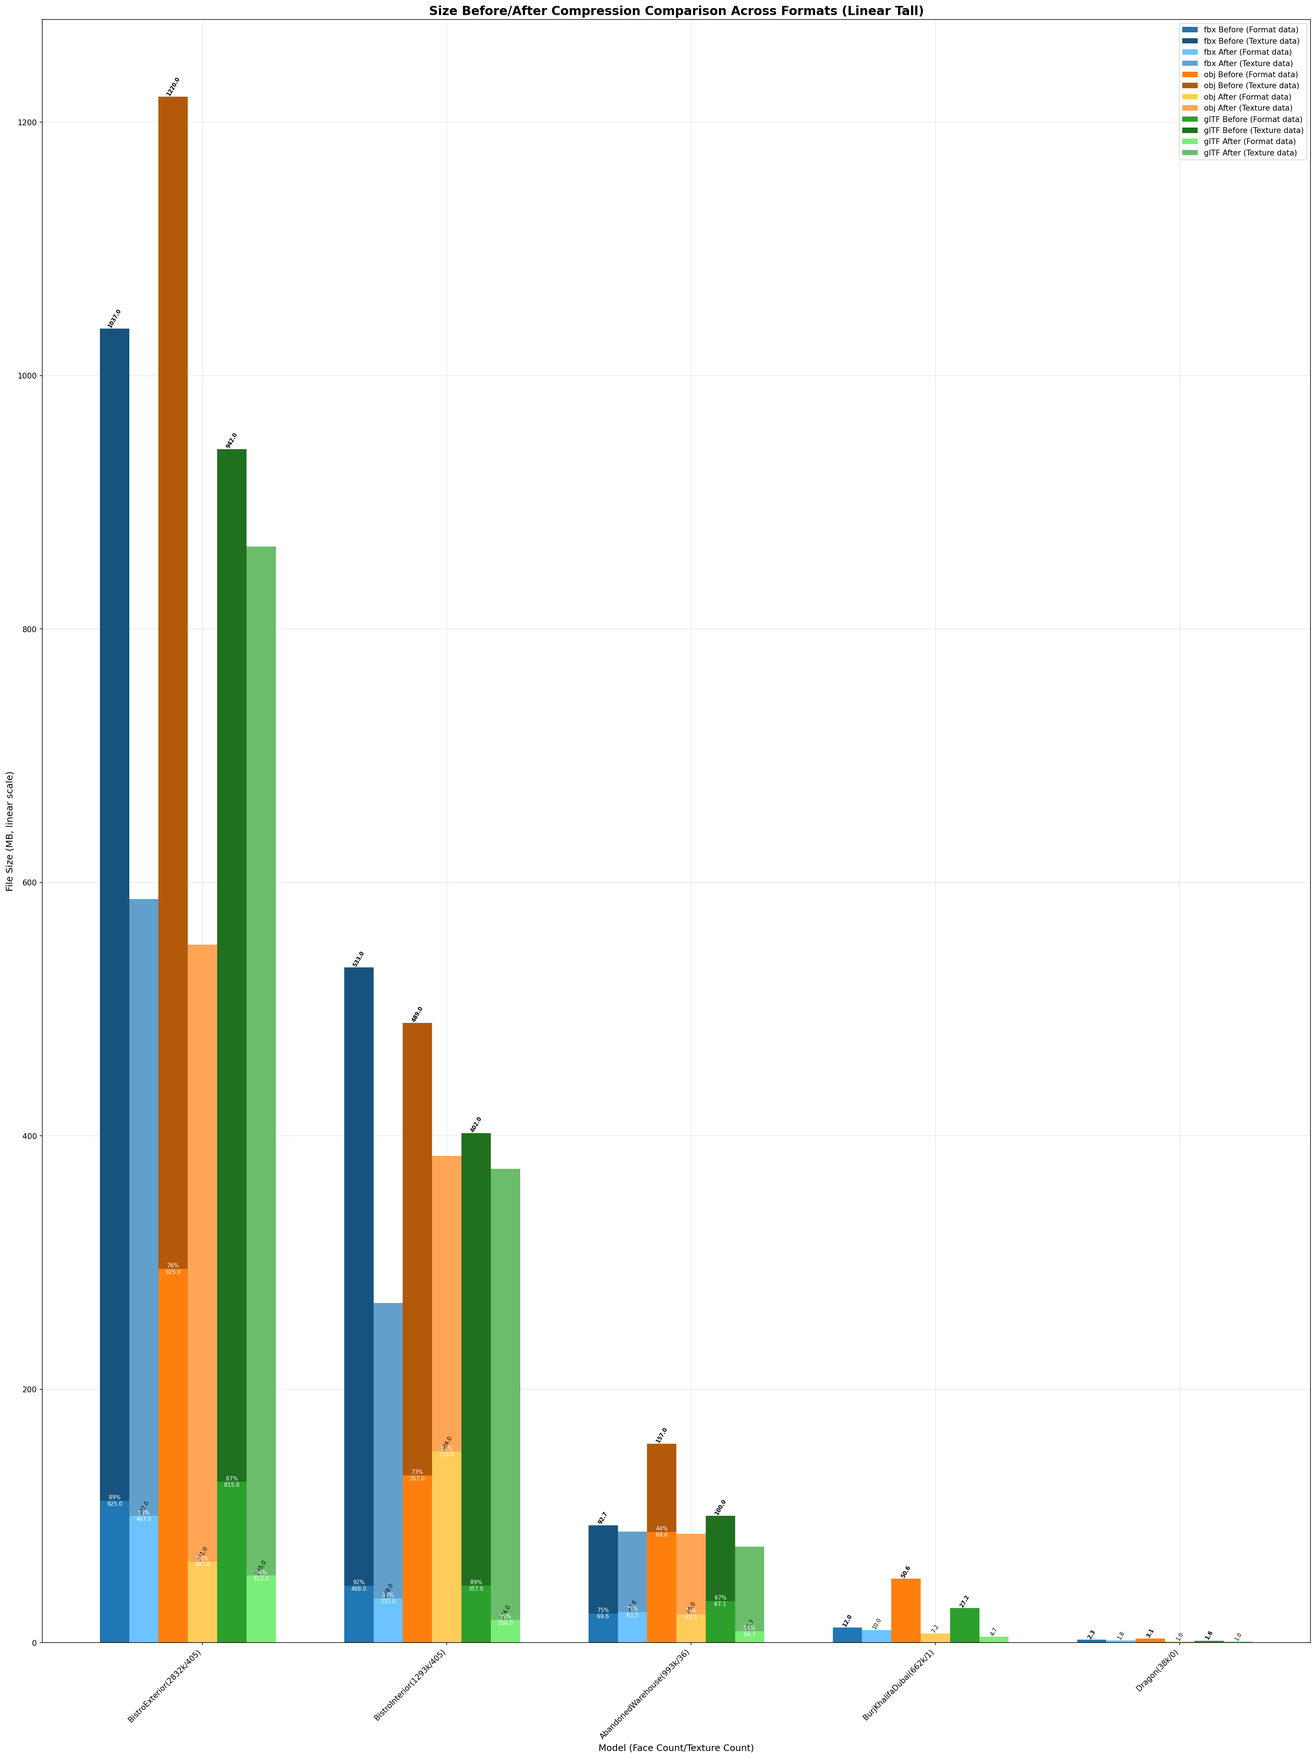
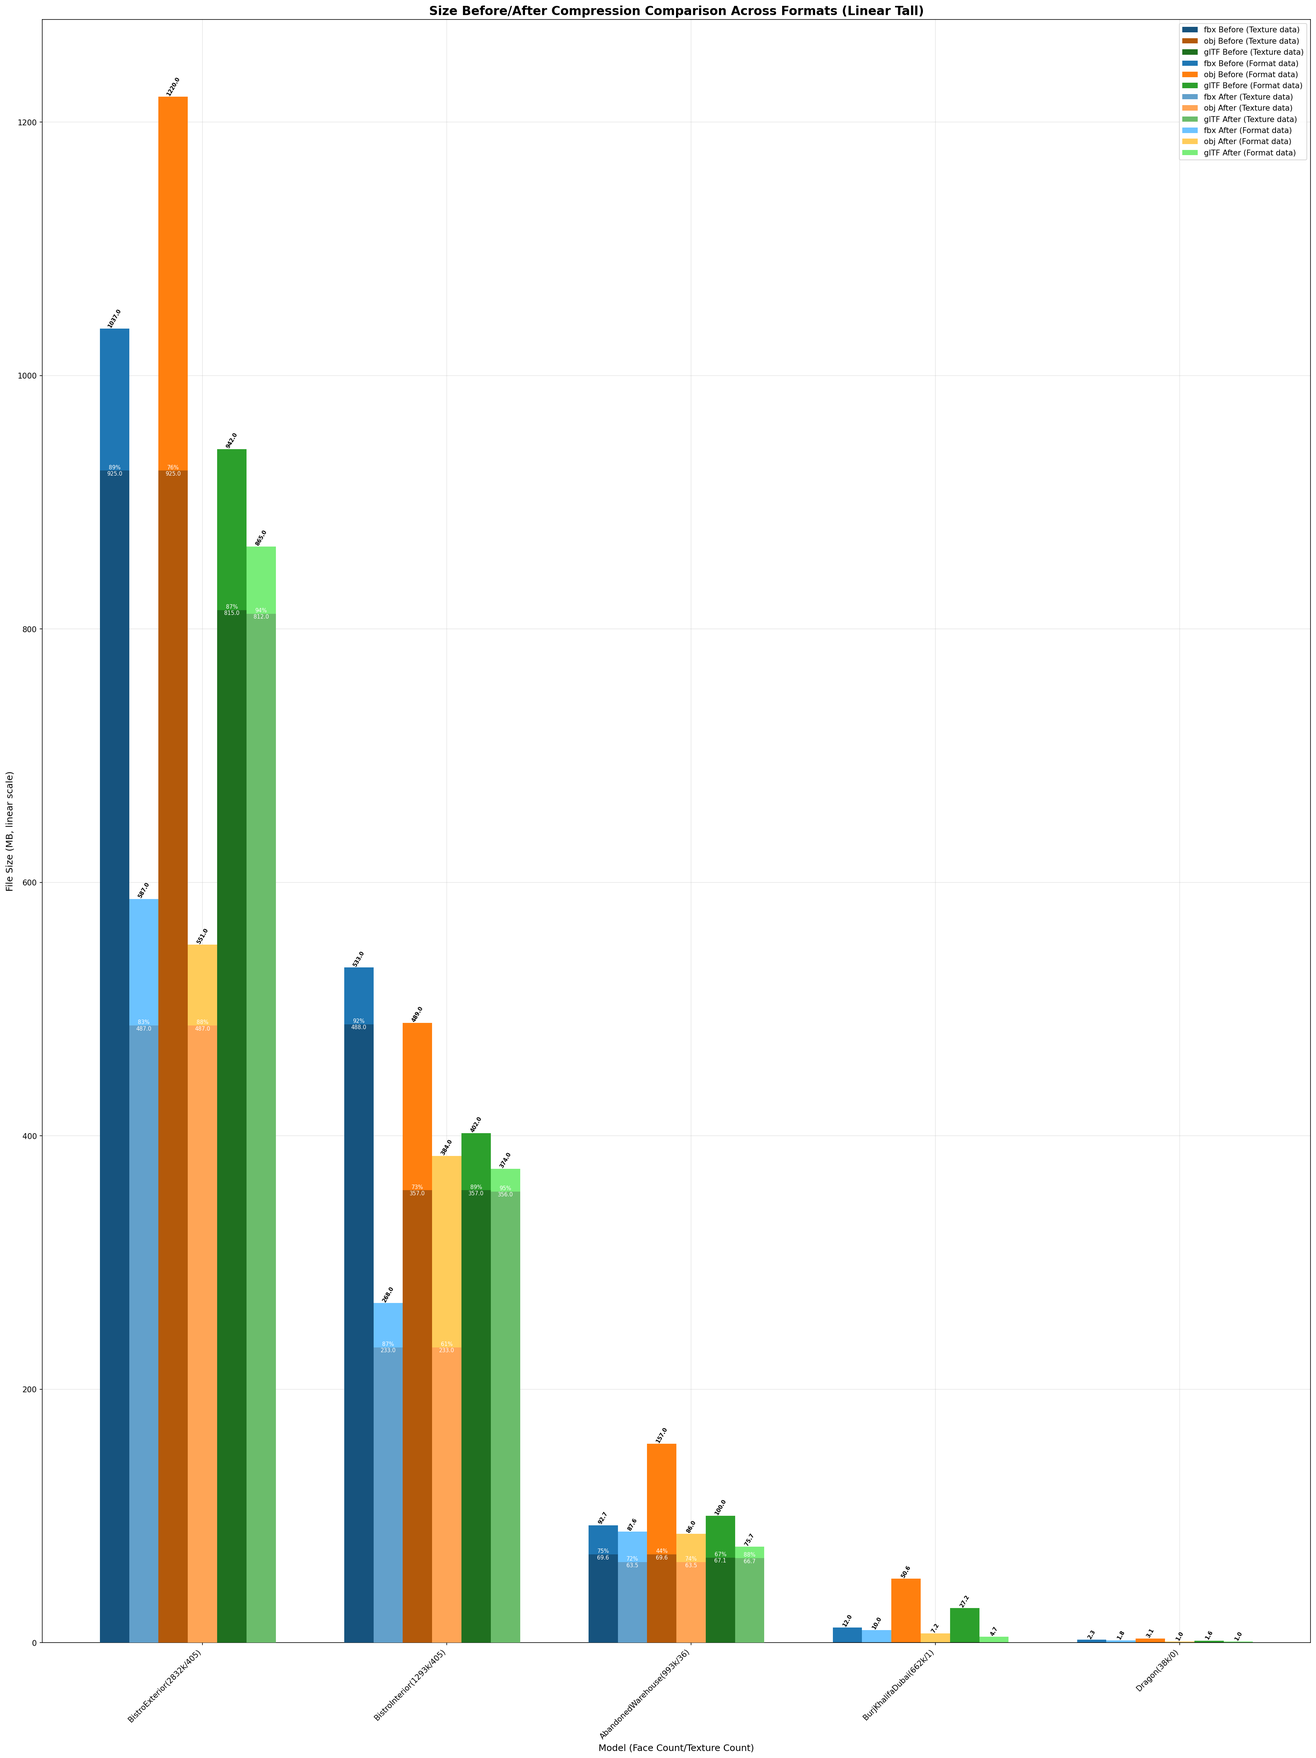
Fix chart data and annotations in reports (#40)
* Changes from background composer bc-c2fe3c64-920c-4b01-bc3e-d4362754724d

* Update cached Python files and chart images

---------

diff --git a/Scripts/main.py b/Scripts/main.py
@@ -1027,7 +1027,7 @@ def create_combined_report(models_data):
     print("Combined report generated: Charts/combined_report.html")
 
 def create_all_format_size_before_after(models_data):
-    """合并Size Before/After Compression为一张分组柱状图"""
+    """合并Size Before/After Compression为一张分组柱状图（下半为纹理，上半为非纹理，标注修正）"""
     formats = ['fbx', 'obj', 'glTF']
     models = []
     face_counts = []
@@ -1049,7 +1049,6 @@ def create_all_format_size_before_after(models_data):
                 else:
                     data_before[fmt].append(None)
                     data_after[fmt].append(None)
-    # 过滤无数据模型
     models, face_counts, textureCounts, keep_indices = filter_models_by_nonempty(models_data, data_before, models, face_counts)
     for fmt in formats:
         data_before[fmt] = [data_before[fmt][i] for i in keep_indices]
@@ -1062,55 +1061,50 @@ def create_all_format_size_before_after(models_data):
         offset = (i - 1.5) * width * 2
         before_vals = [v if v not in [None, 0] else 0 for v in data_before[fmt]]
         after_vals = [v if v not in [None, 0] else 0 for v in data_after[fmt]]
-        texture_before = [
-            models_data[m]['formats'][fmt].get('textureSizeBeforeZipMB', 0) if fmt in models_data[m]['formats'] else 0
-            for m in models
-        ]
-        texture_after = [
-            models_data[m]['formats'][fmt].get('textureSizeAfterZipMB', 0) if fmt in models_data[m]['formats'] else 0
-            for m in models
-        ]
+        texture_before = [models_data[m]['formats'][fmt].get('textureSizeBeforeZipMB', 0) if fmt in models_data[m]['formats'] else 0 for m in models]
+        texture_after = [models_data[m]['formats'][fmt].get('textureSizeAfterZipMB', 0) if fmt in models_data[m]['formats'] else 0 for m in models]
+        non_texture_before = [max(0, v-t) for v, t in zip(before_vals, texture_before)]
+        non_texture_after = [max(0, v-t) for v, t in zip(after_vals, texture_after)]
         color_before = base_colors[i]
         color_after = tuple(np.clip(np.array(base_colors[i]) + 0.3, 0, 1))
         color_before_texture = tuple(np.clip(np.array(base_colors[i]) * 0.7, 0, 1))
         color_after_texture = tuple(np.clip(np.array(base_colors[i]) * 0.7 + 0.3, 0, 1))
-        non_texture_before = [max(0, v-t) for v, t in zip(before_vals, texture_before)]
-        bars1 = ax.bar(x + offset, non_texture_before, width, label=f'{fmt} Before (Format data)', color=color_before, zorder=2)
-        bars1_texture = ax.bar(x + offset, texture_before, width, bottom=non_texture_before, label=f'{fmt} Before (Texture data)', color=color_before_texture, zorder=3)
-        non_texture_after = [max(0, v-t) for v, t in zip(after_vals, texture_after)]
-        bars2 = ax.bar(x + offset + width, non_texture_after, width, label=f'{fmt} After (Format data)', color=color_after, zorder=2)
-        bars2_texture = ax.bar(x + offset + width, texture_after, width, bottom=non_texture_after, label=f'{fmt} After (Texture data)', color=color_after_texture, zorder=3)
-        # 标注
-        for idx, (bar, v, t) in enumerate(zip(bars1, before_vals, texture_before)):
+        # Before: 下半为纹理，上半为非纹理
+        bars1_texture = ax.bar(x + offset, texture_before, width, label=f'{fmt} Before (Texture data)', color=color_before_texture, zorder=3)
+        bars1 = ax.bar(x + offset, non_texture_before, width, bottom=texture_before, label=f'{fmt} Before (Format data)', color=color_before, zorder=2)
+        # After: 下半为纹理，上半为非纹理
+        bars2_texture = ax.bar(x + offset + width, texture_after, width, label=f'{fmt} After (Texture data)', color=color_after_texture, zorder=3)
+        bars2 = ax.bar(x + offset + width, non_texture_after, width, bottom=texture_after, label=f'{fmt} After (Format data)', color=color_after, zorder=2)
+        # 标注 before
+        for idx, (bar_tex, bar_fmt, v, t) in enumerate(zip(bars1_texture, bars1, before_vals, texture_before)):
             if v is None:
-                ax.text(bar.get_x() + bar.get_width()/2., 0.5, 'Missing', ha='center', va='bottom', fontsize=7, color='red', rotation=60, zorder=4)
+                ax.text(bar_fmt.get_x() + bar_fmt.get_width()/2., 0.5, 'Missing', ha='center', va='bottom', fontsize=7, color='red', rotation=60, zorder=4)
             elif v not in [None, 0]:
-                # 原有：ax.text(bar.get_x() + bar.get_width()/2., bar.get_height(), f'{v:.1f}', ...)
-                # 新增：将总值标注在柱子最顶端
-                total_height = non_texture_before[idx] + texture_before[idx]
-                ax.text(bar.get_x() + bar.get_width()/2., total_height, f'{v:.1f}', ha='center', va='bottom', fontsize=7, rotation=60, zorder=4, color='black', fontweight='bold')
-                # 纹理占比
-                if t > 0 and v > 0:
-                    percent = t / v * 100
-                    txt = f'{percent:.0f}%\n{t:.1f}'
-                    if t > v * 0.18:  # 足够空间
-                        ax.text(bar.get_x() + bar.get_width()/2., bar.get_y() + bar.get_height(), txt, ha='center', va='center', fontsize=7, color='white', zorder=5)
-                    else:
-                        ax.plot([bar.get_x() + bar.get_width()/2., bar.get_x() + bar.get_width()/2. + 0.05], [bar.get_y() + bar.get_height(), bar.get_y() + bar.get_height() + max(v*0.08, 2)], color='black', lw=0.7, zorder=6)
-                        ax.text(bar.get_x() + bar.get_width()/2. + 0.08, bar.get_y() + bar.get_height() + max(v*0.08, 2), txt, ha='left', va='bottom', fontsize=7, color='black', zorder=6)
-        for idx, (bar, v, t) in enumerate(zip(bars2, after_vals, texture_after)):
-            if v is None:
-                ax.text(bar.get_x() + bar.get_width()/2., 0.5, 'Missing', ha='center', va='bottom', fontsize=7, color='red', rotation=60, zorder=4)
-            elif v not in [None, 0]:
-                ax.text(bar.get_x() + bar.get_width()/2., bar.get_height(), f'{v:.1f}', ha='center', va='bottom', fontsize=7, rotation=60, zorder=4)
+                total_height = texture_before[idx] + non_texture_before[idx]
+                ax.text(bar_fmt.get_x() + bar_fmt.get_width()/2., total_height, f'{v:.1f}', ha='center', va='bottom', fontsize=7, rotation=60, zorder=4, color='black', fontweight='bold')
                 if t > 0 and v > 0:
                     percent = t / v * 100
                     txt = f'{percent:.0f}%\n{t:.1f}'
                     if t > v * 0.18:
-                        ax.text(bar.get_x() + bar.get_width()/2., bar.get_y() + bar.get_height(), txt, ha='center', va='center', fontsize=7, color='white', zorder=5)
+                        ax.text(bar_tex.get_x() + bar_tex.get_width()/2., bar_tex.get_y() + bar_tex.get_height(), txt, ha='center', va='center', fontsize=7, color='white', zorder=5)
                     else:
-                        ax.plot([bar.get_x() + bar.get_width()/2., bar.get_x() + bar.get_width()/2. + 0.05], [bar.get_y() + bar.get_height(), bar.get_y() + bar.get_height() + max(v*0.08, 2)], color='black', lw=0.7, zorder=6)
-                        ax.text(bar.get_x() + bar.get_width()/2. + 0.08, bar.get_y() + bar.get_height() + max(v*0.08, 2), txt, ha='left', va='bottom', fontsize=7, color='black', zorder=6)
+                        ax.plot([bar_tex.get_x() + bar_tex.get_width()/2., bar_tex.get_x() + bar_tex.get_width()/2. + 0.05], [bar_tex.get_y() + bar_tex.get_height(), bar_tex.get_y() + bar_tex.get_height() + max(v*0.08, 2)], color='black', lw=0.7, zorder=6)
+                        ax.text(bar_tex.get_x() + bar_tex.get_width()/2. + 0.08, bar_tex.get_y() + bar_tex.get_height() + max(v*0.08, 2), txt, ha='left', va='bottom', fontsize=7, color='black', zorder=6)
+        # 标注 after
+        for idx, (bar_tex, bar_fmt, v, t) in enumerate(zip(bars2_texture, bars2, after_vals, texture_after)):
+            if v is None:
+                ax.text(bar_fmt.get_x() + bar_fmt.get_width()/2., 0.5, 'Missing', ha='center', va='bottom', fontsize=7, color='red', rotation=60, zorder=4)
+            elif v not in [None, 0]:
+                total_height = texture_after[idx] + non_texture_after[idx]
+                ax.text(bar_fmt.get_x() + bar_fmt.get_width()/2., total_height, f'{v:.1f}', ha='center', va='bottom', fontsize=7, rotation=60, zorder=4, color='black', fontweight='bold')
+                if t > 0 and v > 0:
+                    percent = t / v * 100
+                    txt = f'{percent:.0f}%\n{t:.1f}'
+                    if t > v * 0.18:
+                        ax.text(bar_tex.get_x() + bar_tex.get_width()/2., bar_tex.get_y() + bar_tex.get_height(), txt, ha='center', va='center', fontsize=7, color='white', zorder=5)
+                    else:
+                        ax.plot([bar_tex.get_x() + bar_tex.get_width()/2., bar_tex.get_x() + bar_tex.get_width()/2. + 0.05], [bar_tex.get_y() + bar_tex.get_height(), bar_tex.get_y() + bar_tex.get_height() + max(v*0.08, 2)], color='black', lw=0.7, zorder=6)
+                        ax.text(bar_tex.get_x() + bar_tex.get_width()/2. + 0.08, bar_tex.get_y() + bar_tex.get_height() + max(v*0.08, 2), txt, ha='left', va='bottom', fontsize=7, color='black', zorder=6)
     all_values = []
     for fmt in formats:
         all_values += [v for v in data_before[fmt] if v not in [None, 0]]
@@ -1123,7 +1117,16 @@ def create_all_format_size_before_after(models_data):
     ax.set_xticks(x)
     labels = [get_standardized_model_name(m, f, t) for m, f, t in zip(models, face_counts, textureCounts)]
     ax.set_xticklabels(labels, rotation=45, ha='right')
-    ax.legend()
+    handles, labels = ax.get_legend_handles_labels()
+    # 去重且顺序: Texture data在下，Format data在上
+    new_labels = []
+    new_handles = []
+    for want in ['Before (Texture data)', 'Before (Format data)', 'After (Texture data)', 'After (Format data)']:
+        for h, l in zip(handles, labels):
+            if want in l and l not in new_labels:
+                new_labels.append(l)
+                new_handles.append(h)
+    ax.legend(new_handles, new_labels)
     ax.grid(True, alpha=0.3, which='both', zorder=1)
     if use_log:
         ax.set_yscale('log')
@@ -1134,7 +1137,7 @@ def create_all_format_size_before_after(models_data):
 # 新增：线性坐标轴+大高图
 
 def create_all_format_size_before_after_linear_tall(models_data):
-    """线性坐标轴+大高图的Size Before/After Compression分组柱状图"""
+    """线性坐标轴+大高图的Size Before/After Compression分组柱状图（下半为纹理，上半为非纹理，标注修正）"""
     formats = ['fbx', 'obj', 'glTF']
     models = []
     face_counts = []
@@ -1162,66 +1165,72 @@ def create_all_format_size_before_after_linear_tall(models_data):
         data_after[fmt] = [data_after[fmt][i] for i in keep_indices]
     x = np.arange(len(models))
     width = 0.12
-    fig, ax = plt.subplots(figsize=(max(24, len(models)*1.2), 32))  # 高度大幅提升
+    fig, ax = plt.subplots(figsize=(max(24, len(models)*1.2), 32))
     base_colors = plt.get_cmap('tab10').colors
     for i, fmt in enumerate(formats):
         offset = (i - 1.5) * width * 2
         before_vals = [v if v not in [None, 0] else 0 for v in data_before[fmt]]
         after_vals = [v if v not in [None, 0] else 0 for v in data_after[fmt]]
-        texture_before = [
-            models_data[m]['formats'][fmt].get('textureSizeBeforeZipMB', 0) if fmt in models_data[m]['formats'] else 0
-            for m in models
-        ]
-        texture_after = [
-            models_data[m]['formats'][fmt].get('textureSizeAfterZipMB', 0) if fmt in models_data[m]['formats'] else 0
-            for m in models
-        ]
+        texture_before = [models_data[m]['formats'][fmt].get('textureSizeBeforeZipMB', 0) if fmt in models_data[m]['formats'] else 0 for m in models]
+        texture_after = [models_data[m]['formats'][fmt].get('textureSizeAfterZipMB', 0) if fmt in models_data[m]['formats'] else 0 for m in models]
+        non_texture_before = [max(0, v-t) for v, t in zip(before_vals, texture_before)]
+        non_texture_after = [max(0, v-t) for v, t in zip(after_vals, texture_after)]
         color_before = base_colors[i]
         color_after = tuple(np.clip(np.array(base_colors[i]) + 0.3, 0, 1))
         color_before_texture = tuple(np.clip(np.array(base_colors[i]) * 0.7, 0, 1))
         color_after_texture = tuple(np.clip(np.array(base_colors[i]) * 0.7 + 0.3, 0, 1))
-        non_texture_before = [max(0, v-t) for v, t in zip(before_vals, texture_before)]
-        bars1 = ax.bar(x + offset, non_texture_before, width, label=f'{fmt} Before (Format data)', color=color_before, zorder=2)
-        bars1_texture = ax.bar(x + offset, texture_before, width, bottom=non_texture_before, label=f'{fmt} Before (Texture data)', color=color_before_texture, zorder=3)
-        non_texture_after = [max(0, v-t) for v, t in zip(after_vals, texture_after)]
-        bars2 = ax.bar(x + offset + width, non_texture_after, width, label=f'{fmt} After (Format data)', color=color_after, zorder=2)
-        bars2_texture = ax.bar(x + offset + width, texture_after, width, bottom=non_texture_after, label=f'{fmt} After (Texture data)', color=color_after_texture, zorder=3)
-        for idx, (bar, v, t) in enumerate(zip(bars1, before_vals, texture_before)):
+        # Before: 下半为纹理，上半为非纹理
+        bars1_texture = ax.bar(x + offset, texture_before, width, label=f'{fmt} Before (Texture data)', color=color_before_texture, zorder=3)
+        bars1 = ax.bar(x + offset, non_texture_before, width, bottom=texture_before, label=f'{fmt} Before (Format data)', color=color_before, zorder=2)
+        # After: 下半为纹理，上半为非纹理
+        bars2_texture = ax.bar(x + offset + width, texture_after, width, label=f'{fmt} After (Texture data)', color=color_after_texture, zorder=3)
+        bars2 = ax.bar(x + offset + width, non_texture_after, width, bottom=texture_after, label=f'{fmt} After (Format data)', color=color_after, zorder=2)
+        # 标注 before
+        for idx, (bar_tex, bar_fmt, v, t) in enumerate(zip(bars1_texture, bars1, before_vals, texture_before)):
             if v is None:
-                ax.text(bar.get_x() + bar.get_width()/2., 0.5, 'Missing', ha='center', va='bottom', fontsize=7, color='red', rotation=60, zorder=4)
+                ax.text(bar_fmt.get_x() + bar_fmt.get_width()/2., 0.5, 'Missing', ha='center', va='bottom', fontsize=7, color='red', rotation=60, zorder=4)
             elif v not in [None, 0]:
-                total_height = non_texture_before[idx] + texture_before[idx]
-                ax.text(bar.get_x() + bar.get_width()/2., total_height, f'{v:.1f}', ha='center', va='bottom', fontsize=7, rotation=60, zorder=4, color='black', fontweight='bold')
+                total_height = texture_before[idx] + non_texture_before[idx]
+                ax.text(bar_fmt.get_x() + bar_fmt.get_width()/2., total_height, f'{v:.1f}', ha='center', va='bottom', fontsize=7, rotation=60, zorder=4, color='black', fontweight='bold')
                 if t > 0 and v > 0:
                     percent = t / v * 100
                     txt = f'{percent:.0f}%\n{t:.1f}'
                     if t > v * 0.18:
-                        ax.text(bar.get_x() + bar.get_width()/2., bar.get_y() + bar.get_height(), txt, ha='center', va='center', fontsize=7, color='white', zorder=5)
+                        ax.text(bar_tex.get_x() + bar_tex.get_width()/2., bar_tex.get_y() + bar_tex.get_height(), txt, ha='center', va='center', fontsize=7, color='white', zorder=5)
                     else:
-                        ax.plot([bar.get_x() + bar.get_width()/2., bar.get_x() + bar.get_width()/2. + 0.05], [bar.get_y() + bar.get_height(), bar.get_y() + bar.get_height() + max(v*0.08, 2)], color='black', lw=0.7, zorder=6)
-                        ax.text(bar.get_x() + bar.get_width()/2. + 0.08, bar.get_y() + bar.get_height() + max(v*0.08, 2), txt, ha='left', va='bottom', fontsize=7, color='black', zorder=6)
-        for idx, (bar, v, t) in enumerate(zip(bars2, after_vals, texture_after)):
+                        ax.plot([bar_tex.get_x() + bar_tex.get_width()/2., bar_tex.get_x() + bar_tex.get_width()/2. + 0.05], [bar_tex.get_y() + bar_tex.get_height(), bar_tex.get_y() + bar_tex.get_height() + max(v*0.08, 2)], color='black', lw=0.7, zorder=6)
+                        ax.text(bar_tex.get_x() + bar_tex.get_width()/2. + 0.08, bar_tex.get_y() + bar_tex.get_height() + max(v*0.08, 2), txt, ha='left', va='bottom', fontsize=7, color='black', zorder=6)
+        # 标注 after
+        for idx, (bar_tex, bar_fmt, v, t) in enumerate(zip(bars2_texture, bars2, after_vals, texture_after)):
             if v is None:
-                ax.text(bar.get_x() + bar.get_width()/2., 0.5, 'Missing', ha='center', va='bottom', fontsize=7, color='red', rotation=60, zorder=4)
+                ax.text(bar_fmt.get_x() + bar_fmt.get_width()/2., 0.5, 'Missing', ha='center', va='bottom', fontsize=7, color='red', rotation=60, zorder=4)
             elif v not in [None, 0]:
-                ax.text(bar.get_x() + bar.get_width()/2., bar.get_height(), f'{v:.1f}', ha='center', va='bottom', fontsize=7, rotation=60, zorder=4)
+                total_height = texture_after[idx] + non_texture_after[idx]
+                ax.text(bar_fmt.get_x() + bar_fmt.get_width()/2., total_height, f'{v:.1f}', ha='center', va='bottom', fontsize=7, rotation=60, zorder=4, color='black', fontweight='bold')
                 if t > 0 and v > 0:
                     percent = t / v * 100
                     txt = f'{percent:.0f}%\n{t:.1f}'
                     if t > v * 0.18:
-                        ax.text(bar.get_x() + bar.get_width()/2., bar.get_y() + bar.get_height(), txt, ha='center', va='center', fontsize=7, color='white', zorder=5)
+                        ax.text(bar_tex.get_x() + bar_tex.get_width()/2., bar_tex.get_y() + bar_tex.get_height(), txt, ha='center', va='center', fontsize=7, color='white', zorder=5)
                     else:
-                        ax.plot([bar.get_x() + bar.get_width()/2., bar.get_x() + bar.get_width()/2. + 0.05], [bar.get_y() + bar.get_height(), bar.get_y() + bar.get_height() + max(v*0.08, 2)], color='black', lw=0.7, zorder=6)
-                        ax.text(bar.get_x() + bar.get_width()/2. + 0.08, bar.get_y() + bar.get_height() + max(v*0.08, 2), txt, ha='left', va='bottom', fontsize=7, color='black', zorder=6)
+                        ax.plot([bar_tex.get_x() + bar_tex.get_width()/2., bar_tex.get_x() + bar_tex.get_width()/2. + 0.05], [bar_tex.get_y() + bar_tex.get_height(), bar_tex.get_y() + bar_tex.get_height() + max(v*0.08, 2)], color='black', lw=0.7, zorder=6)
+                        ax.text(bar_tex.get_x() + bar_tex.get_width()/2. + 0.08, bar_tex.get_y() + bar_tex.get_height() + max(v*0.08, 2), txt, ha='left', va='bottom', fontsize=7, color='black', zorder=6)
     ax.set_xlabel('Model (Face Count/Texture Count)', fontsize=12)
     ax.set_ylabel('File Size (MB, linear scale)', fontsize=12)
     ax.set_title('Size Before/After Compression Comparison Across Formats (Linear Tall)', fontsize=16, fontweight='bold')
     ax.set_xticks(x)
     labels = [get_standardized_model_name(m, f, t) for m, f, t in zip(models, face_counts, textureCounts)]
     ax.set_xticklabels(labels, rotation=45, ha='right')
-    ax.legend()
+    handles, labels = ax.get_legend_handles_labels()
+    new_labels = []
+    new_handles = []
+    for want in ['Before (Texture data)', 'Before (Format data)', 'After (Texture data)', 'After (Format data)']:
+        for h, l in zip(handles, labels):
+            if want in l and l not in new_labels:
+                new_labels.append(l)
+                new_handles.append(h)
+    ax.legend(new_handles, new_labels)
     ax.grid(True, alpha=0.3, which='both', zorder=1)
-    # 强制线性坐标轴
     plt.tight_layout()
     save_plot_as_html(fig, 'Charts/all_format_size_before_after_linear_tall.html', 'Size Before/After Compression Comparison Across Formats (Linear Tall)', 'Size before/after compression for each format (linear scale, tall figure, missing data marked)')
     fig.savefig('Charts/all_format_size_before_after_linear_tall.png', dpi=150, bbox_inches='tight')
